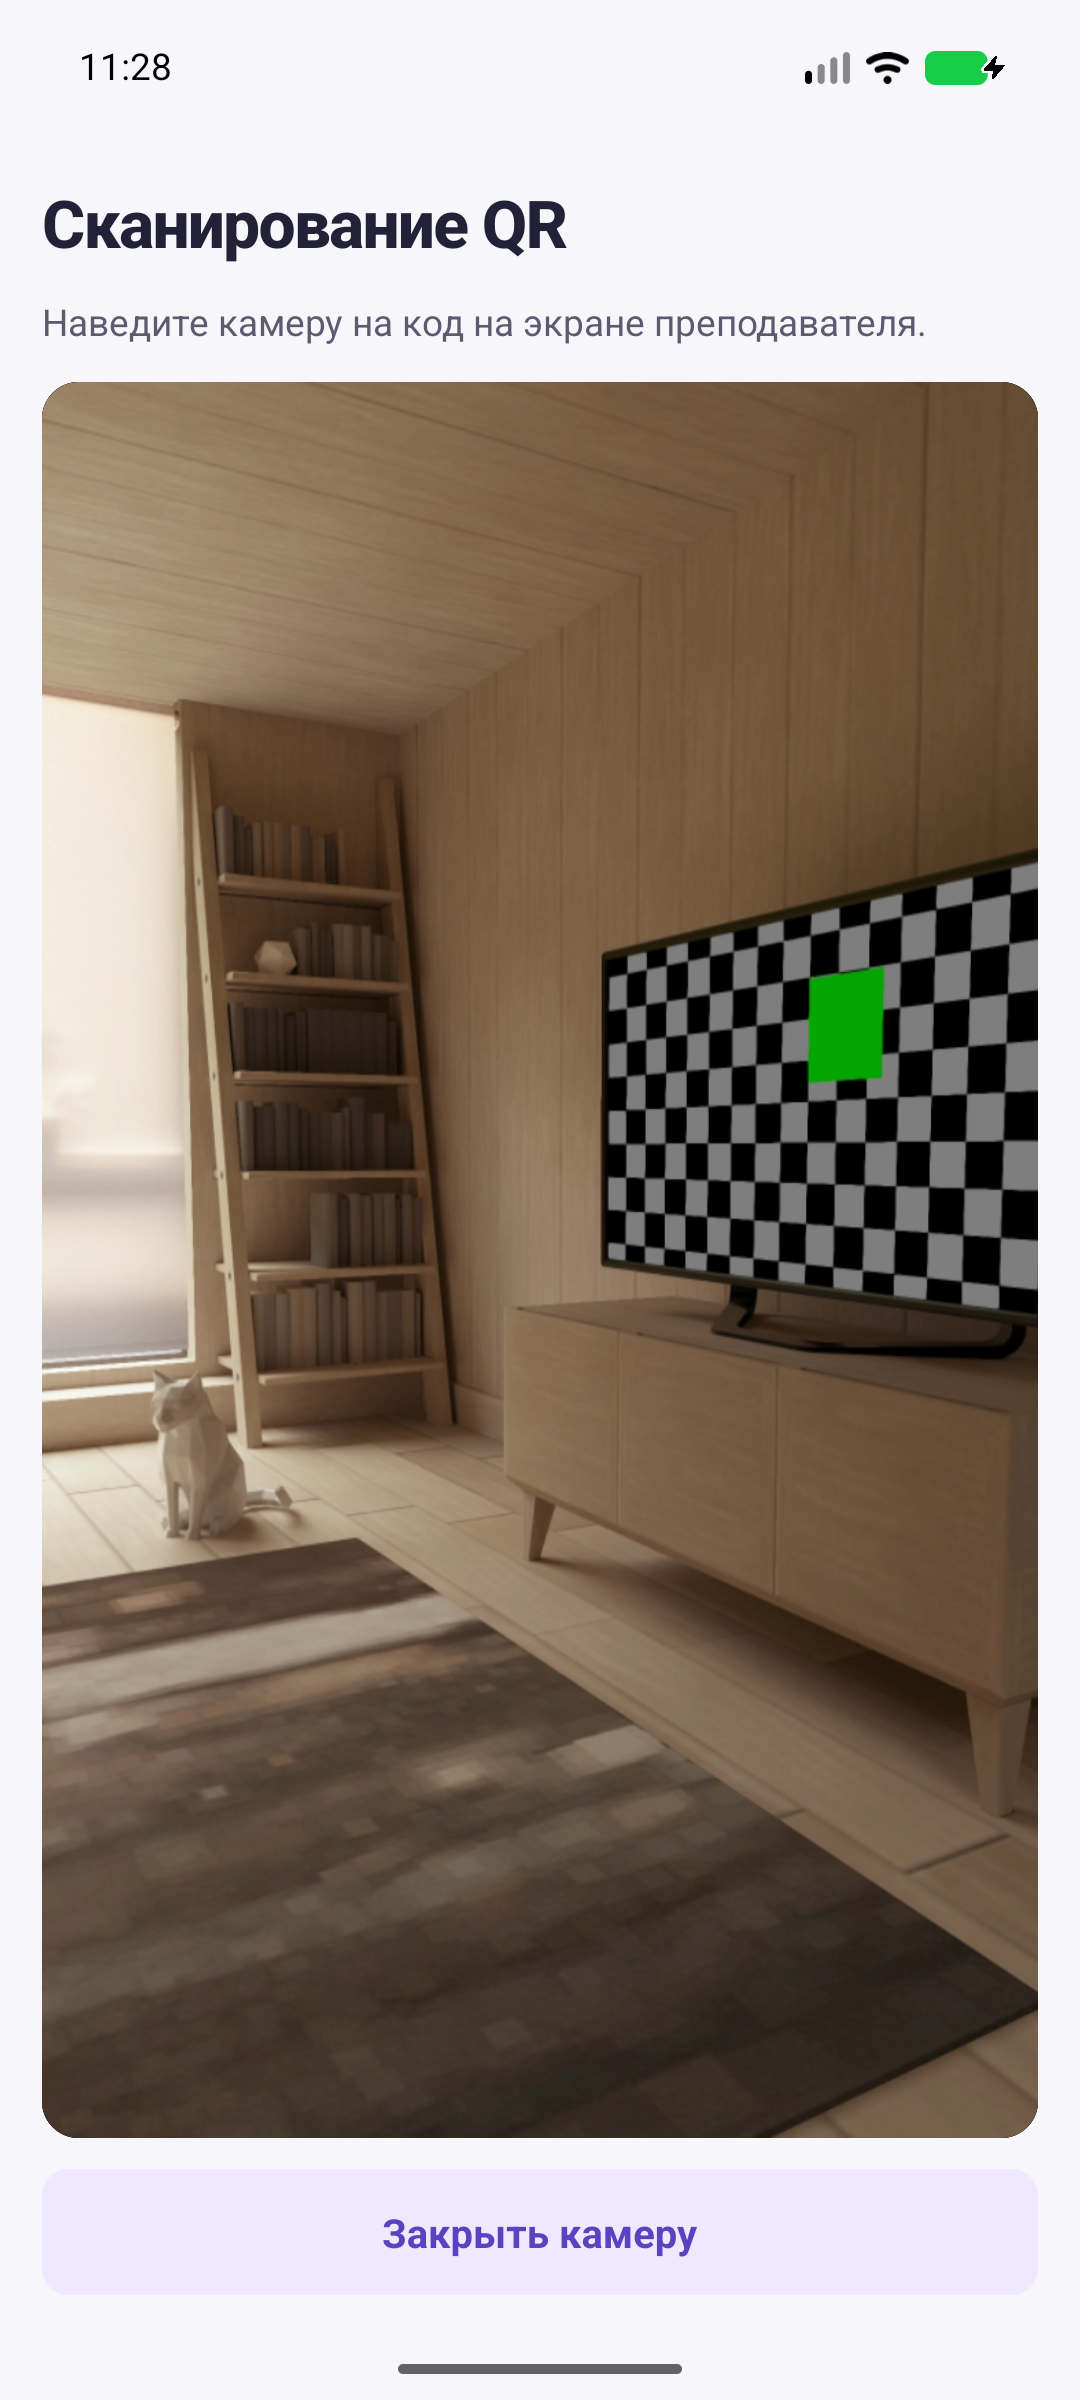
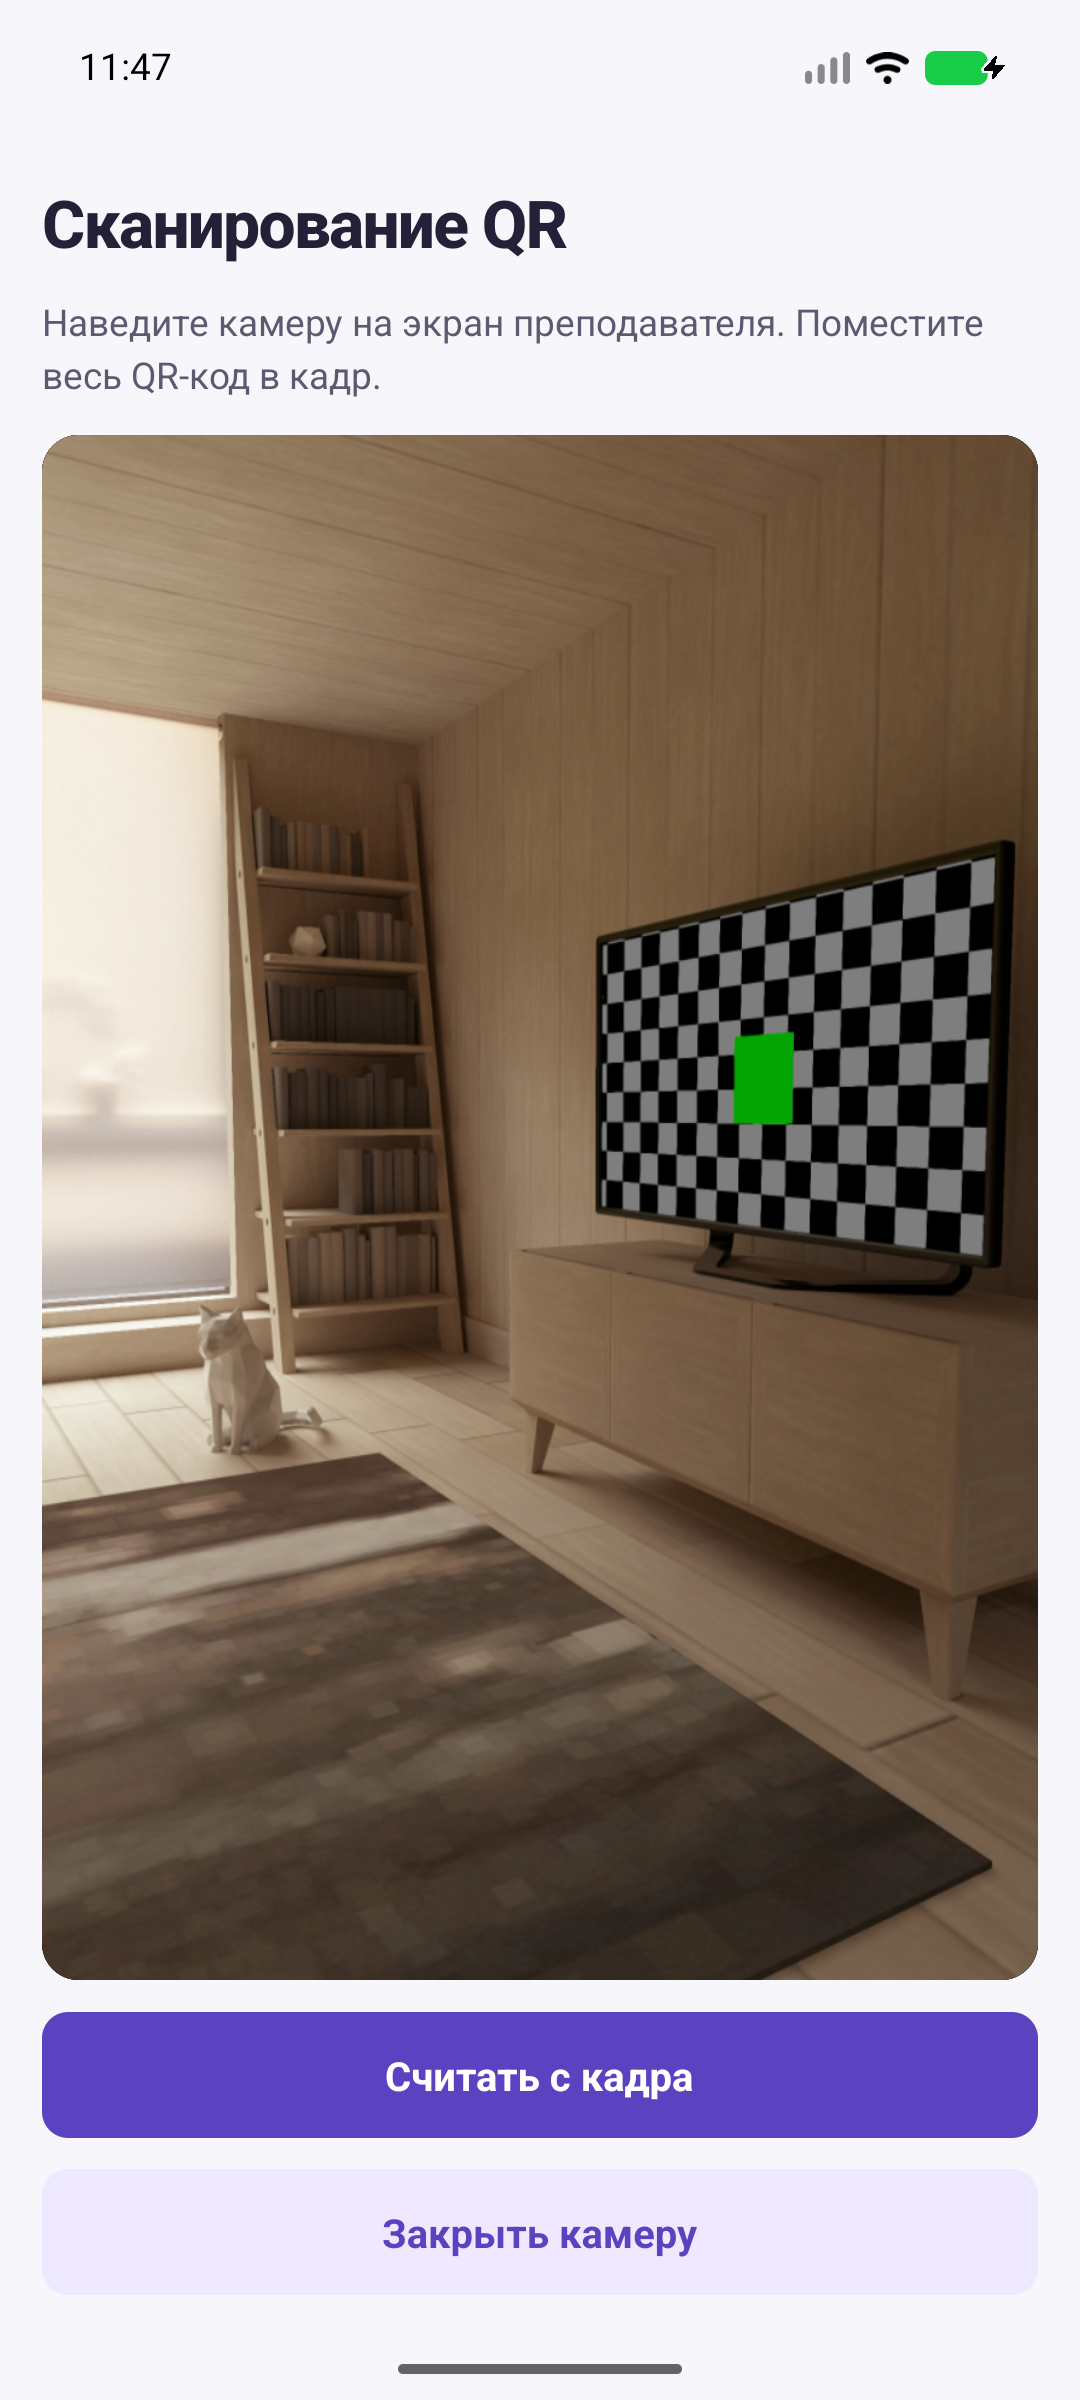
docs: обновить скриншоты журнала и QR-сканера

diff --git a/README.md b/README.md
@@ -35,6 +35,8 @@ docker compose run --rm --no-deps seed
 
 ![Расписание, открытая QR-сессия и отметки студентов в кабинете преподавателя](docs/screenshots/teacher-dashboard.png)
 
+<img src="docs/screenshots/teacher-mark-location.png" alt="Широта, долгота и погрешность геоотметки в кабинете преподавателя" width="420" />
+
 ### Приложение студента
 
 <img src="docs/screenshots/student-qr-scanner.png" alt="Экран сканирования QR-кода в Android-приложении Attendance" width="320" />
